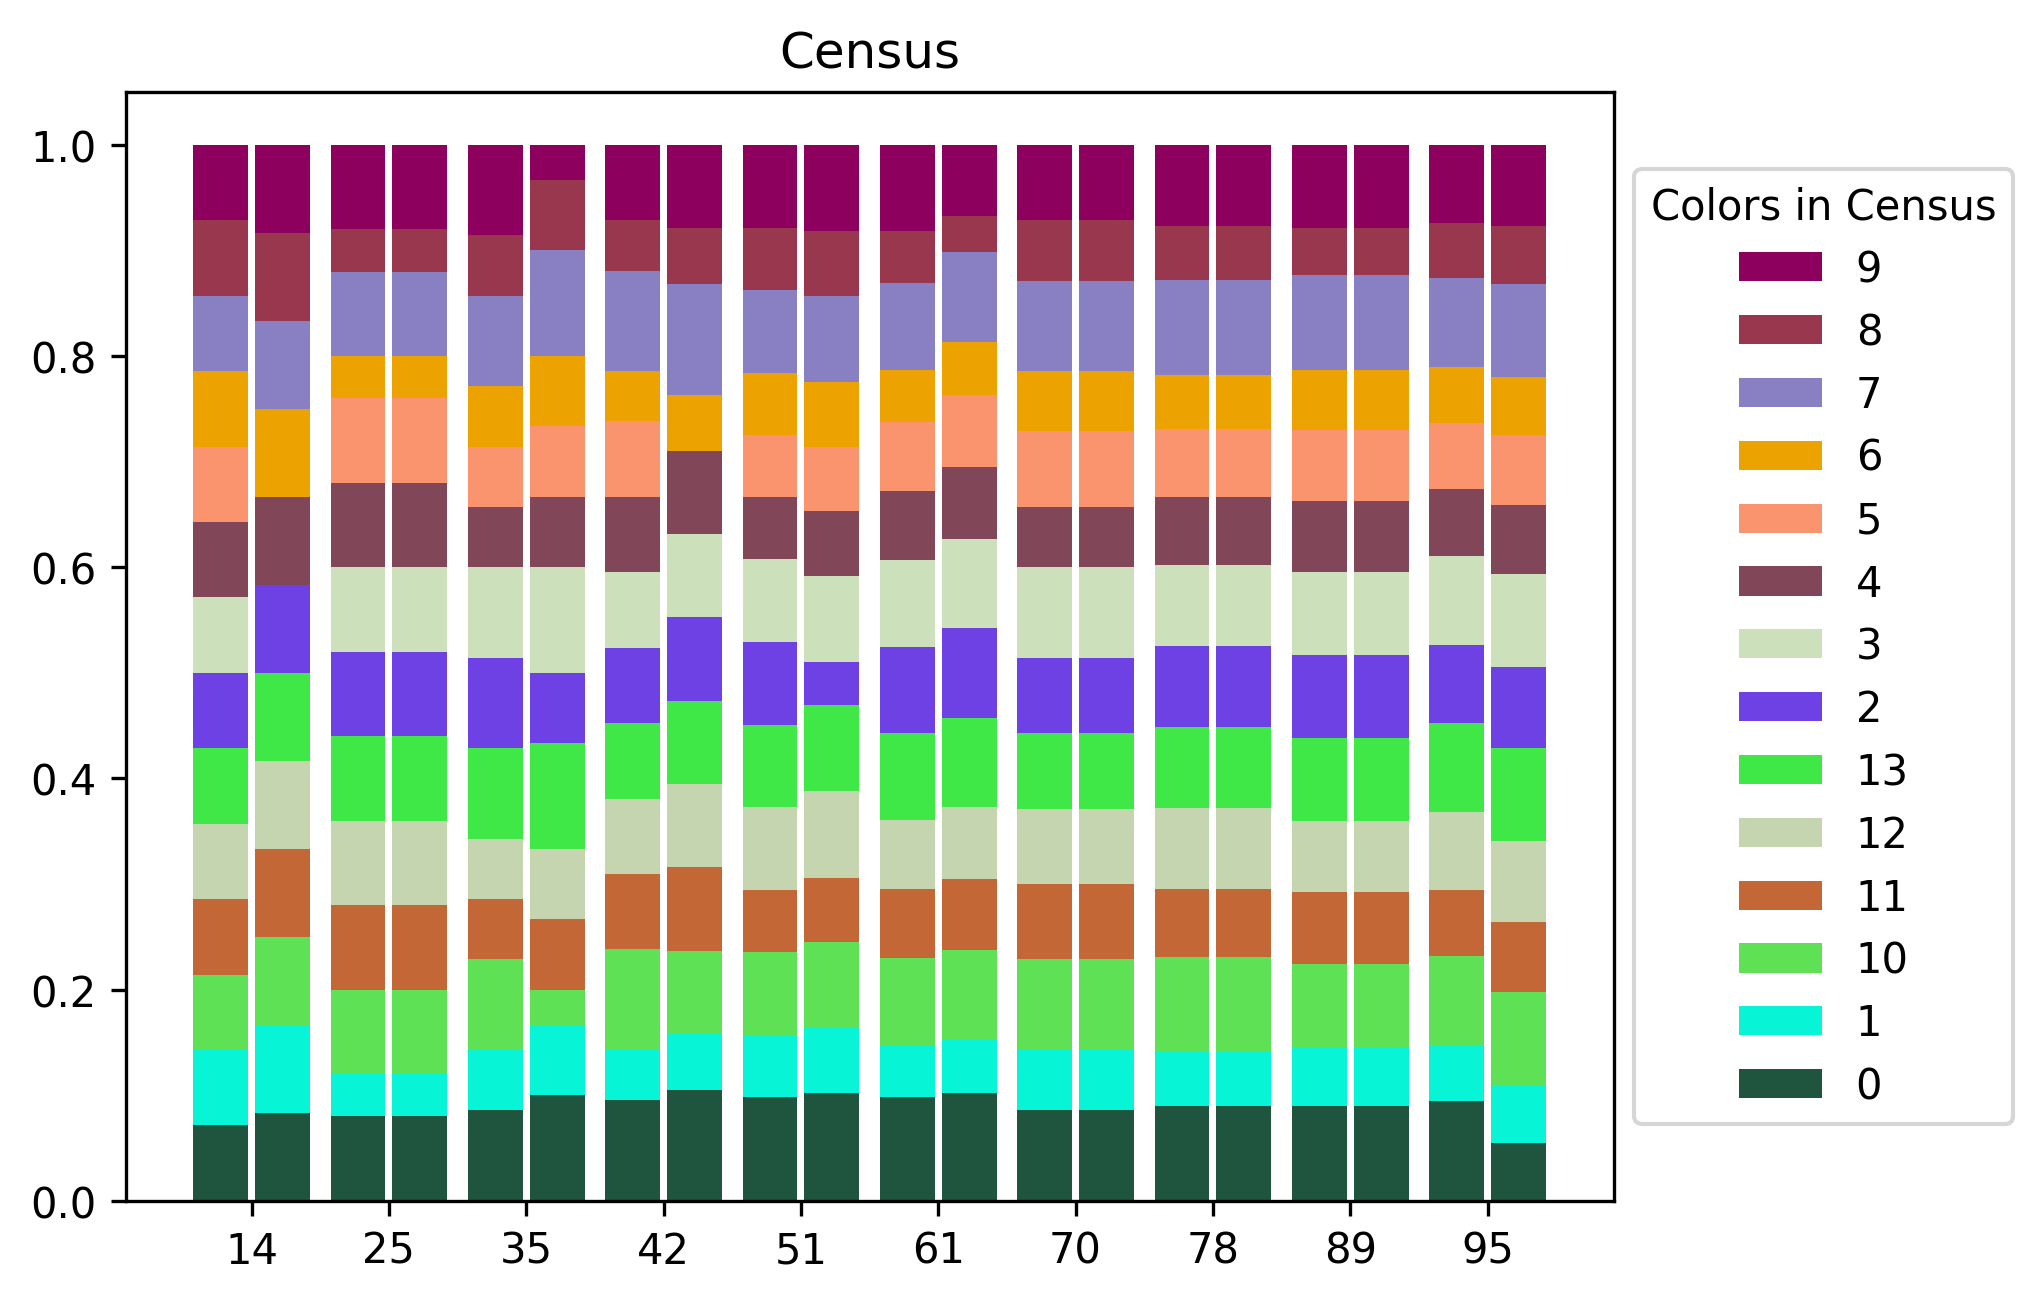
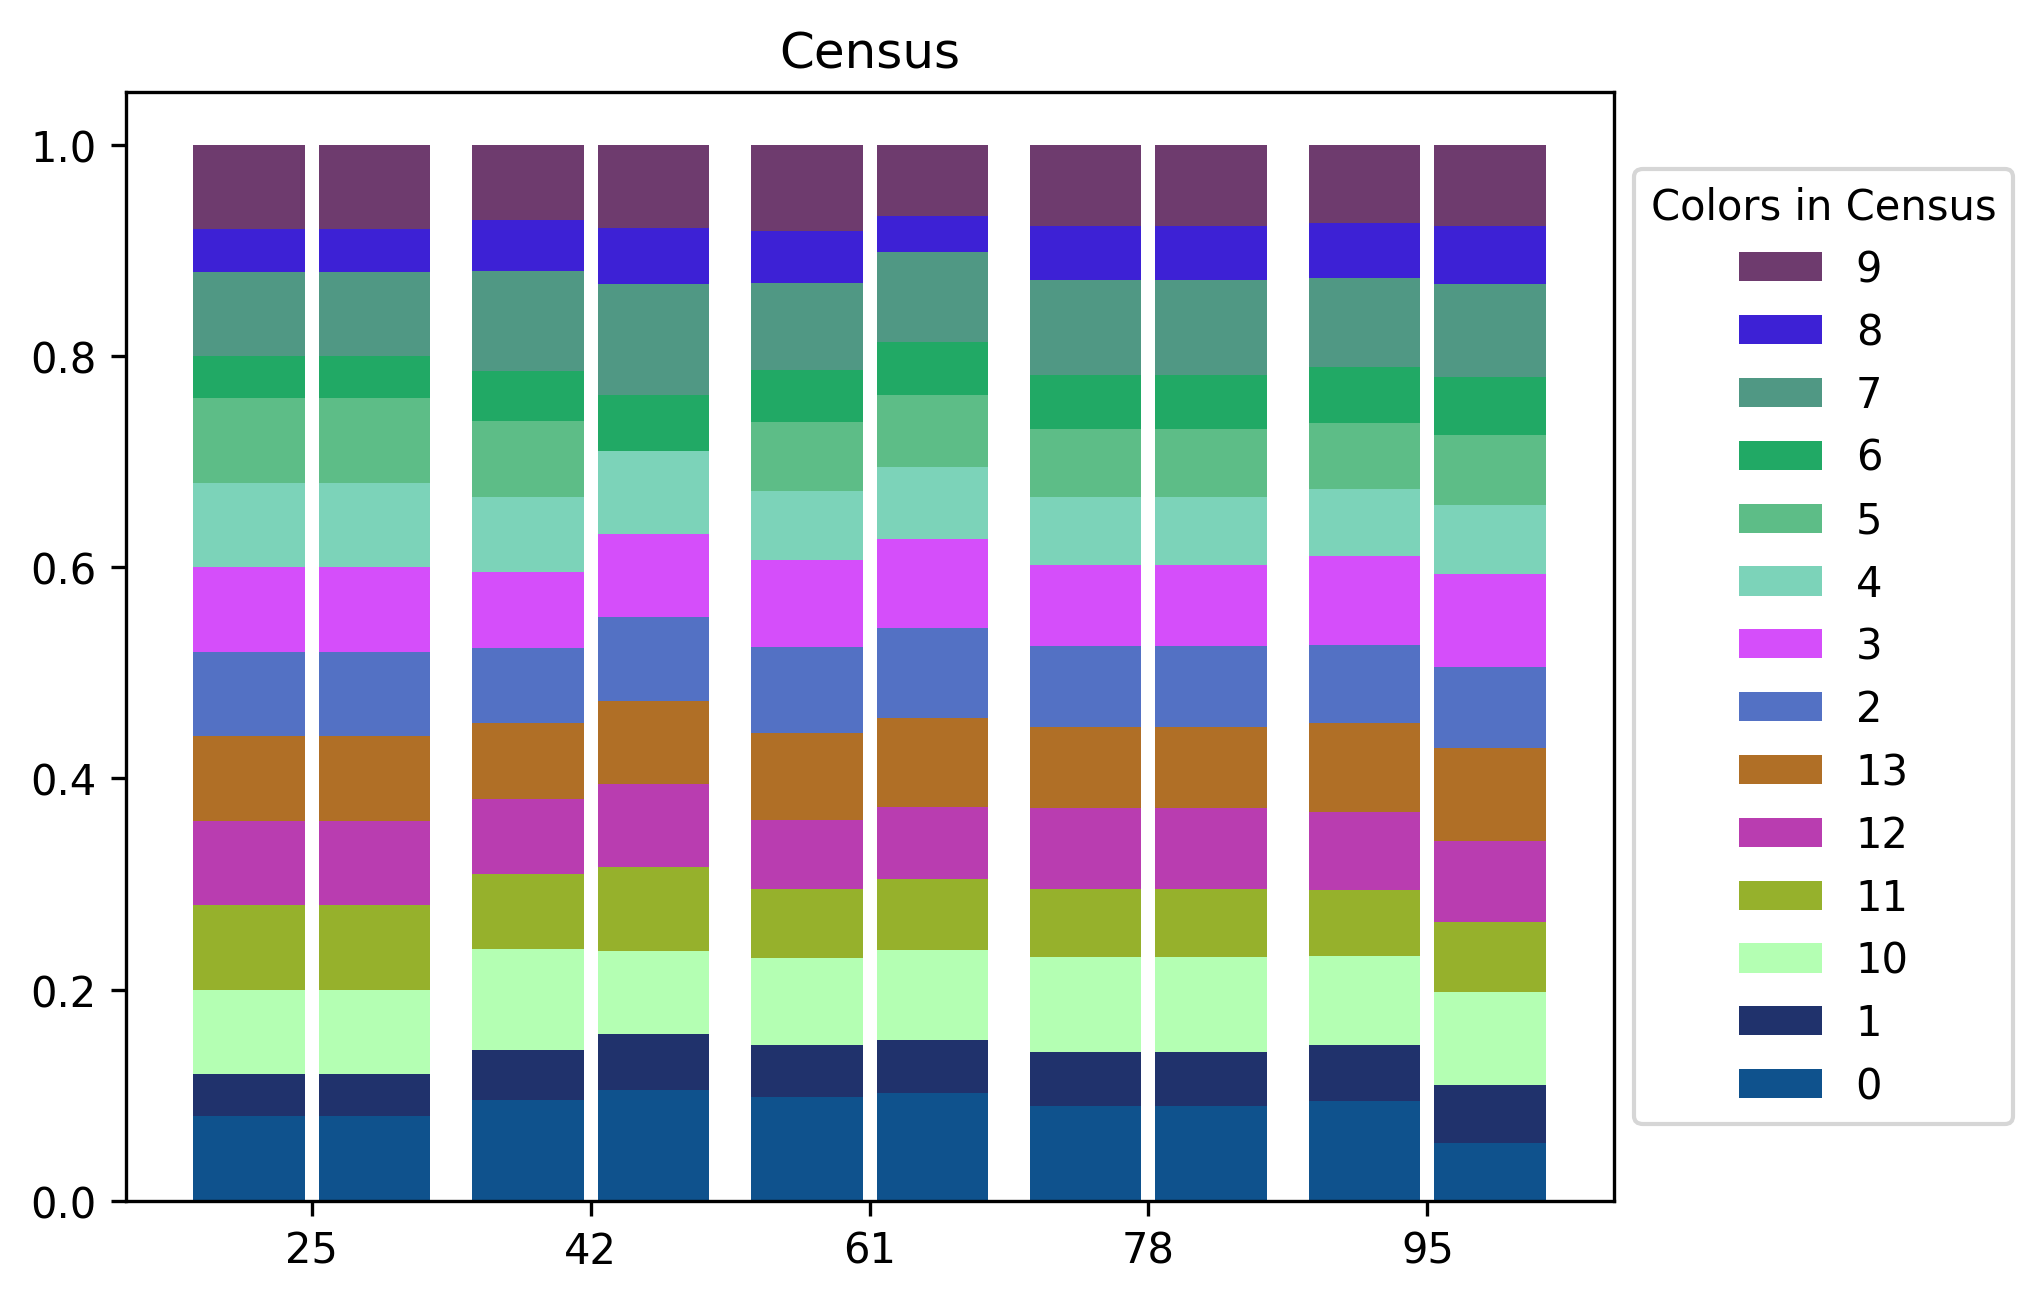
plotting bars at odd indicies

diff --git a/plot_k.py b/plot_k.py
@@ -98,6 +98,7 @@ use_ratio = True
 use_deltas = False
 color_mappings = {}
 color_mappings2 = {}
+runner_ks = [k for k in range(setup["parameters"]["k"][0] ,setup["parameters"]["k"][1], setup["parameters"]["k"][2])]
 data = {}
 for color_result in color_results:
     dataset = color_result[0]
@@ -178,11 +179,31 @@ for color_result in color_results:
 def plot_color_results(algorithm):
     plt.clf()
     width = 0.4
+    only_odds = True
     for dataset in  data:
         fig, ax = plt.subplots()
         ks = data[dataset][algorithm]['ks']
         returned_counts = data[dataset][algorithm]['returned_counts']
         required_counts = data[dataset][algorithm]['required_counts']
+        if only_odds:
+                temp1 = []
+                max_ind= len(ks)
+                for i in range(0, max_ind):
+                    if (i+1)%2 == 0:
+                        temp1.append(ks[i])
+                ks = temp1
+                for color in required_counts:
+                    prev1 = required_counts[color]
+                    prev2 = returned_counts[color]
+                    new1 = []
+                    new2 = []
+                    for i in range(0, max_ind):
+                        if (i+1)%2 == 0:
+                            new1.append(prev1[i])
+                            new2.append(prev2[i])
+                    required_counts[color] = new1
+                    returned_counts[color] = new2
+
         bottom = np.zeros(len(ks))
         ind = np.arange(len(ks))
         for color in required_counts:
@@ -205,7 +226,6 @@ def plot_color_results(algorithm):
         )
         plt.savefig(f'{plot_dir}/{dataset}_{algorithm}.png', dpi=300, bbox_inches='tight')
         plt.close()
-
 
 for alg in setup['algorithms']:
     plot_color_results(alg)
